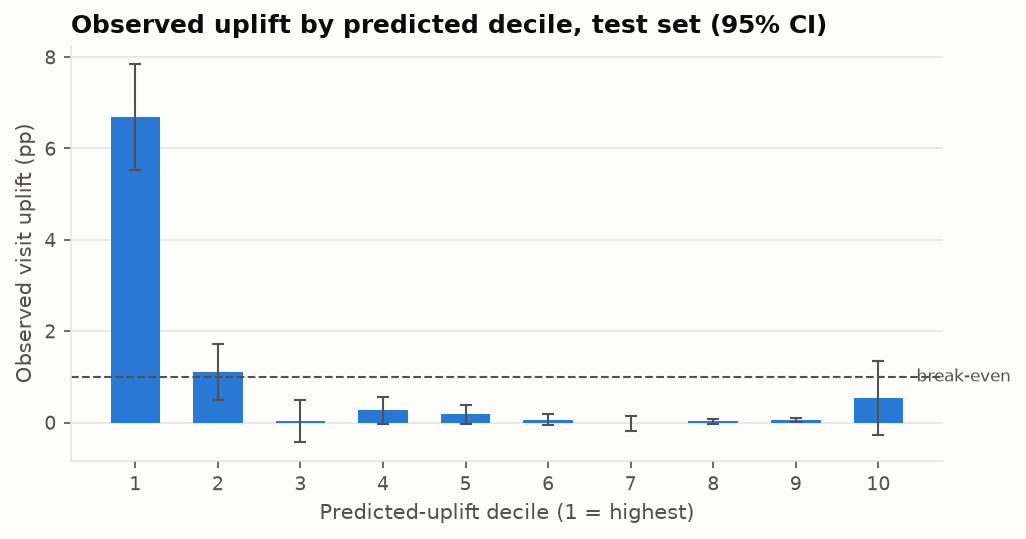
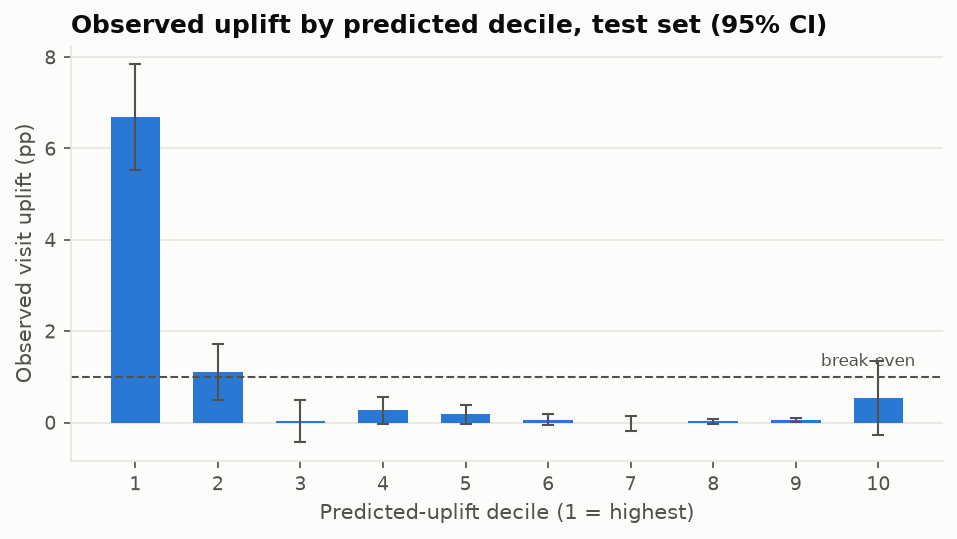
Stage 9: final review fixes
Clean-room rerun (fresh clone, Python 3.12, fresh downloads + BigQuery pull):
lint, 147 tests, demo, full validation and all three case studies pass and
reproduce committed results (stage2/4 byte-identical; stage3 to ~1e-12;
Hillstrom/Criteo exact; GA360 to relative 2e-8).

Review fixes:
- Report headline now quotes the CUPED estimate whose test produced the
  adjusted p-value (previously mixed unadjusted estimate with CUPED p).
- stage3.json regenerated: the committed file predated the cluster-SE
  refactor of AIPW (variance factor ddof=1 -> G/(G-1)); changes in 5th digit.
- README/CV: no longer claim every estimator is simulation-validated (some are
  reference-checked only); 'shipped' -> 'packaged'; reproducibility claim
  states exactly what was verified.
- GA360 memo labels the internal-traffic exclusion as post-hoc and notes the
  visitor-randomization design effect on the power table.
- Makefile documents the BigQuery extra for the GA360 case study.

diff --git a/src/xpkit/report/core.py b/src/xpkit/report/core.py
@@ -100,17 +100,24 @@ class ReportData:
         if not prim:
             return "No primary metric configured."
         m = prim[0]
+        # Report the estimate whose test produced the adjusted p-value (CUPED if configured).
+        est, lo, hi = (
+            (m.cuped["estimate"], m.cuped["ci_low"], m.cuped["ci_high"])
+            if m.cuped
+            else (m.estimate, m.ci_low, m.ci_high)
+        )
+        how = " (CUPED-adjusted)" if m.cuped else ""
         if m.adjusted_p_value < self.config["alpha"]:
-            direction = "increased" if m.estimate > 0 else "decreased"
+            direction = "increased" if est > 0 else "decreased"
             return (
-                f"Primary metric '{m.name}' {direction} by {m.estimate:+.4g} "
-                f"(CI {m.ci_low:+.4g} to {m.ci_high:+.4g}); significant after "
+                f"Primary metric '{m.name}' {direction} by {est:+.4g}{how} "
+                f"(CI {lo:+.4g} to {hi:+.4g}); significant after "
                 f"{self.config['multiplicity']} correction."
             )
+        mde = f" Smallest effect detectable at 80% power: {m.mde_80:.4g}." if m.mde_80 else ""
         return (
-            f"No significant change in primary metric '{m.name}' "
-            f"(estimate {m.estimate:+.4g}, CI {m.ci_low:+.4g} to {m.ci_high:+.4g}). "
-            f"Smallest effect detectable at 80% power: {m.mde_80:.4g}."
+            f"No significant change in primary metric '{m.name}'{how} "
+            f"(estimate {est:+.4g}, CI {lo:+.4g} to {hi:+.4g}).{mde}"
         )
 
 

diff --git a/docs/memos/03_ga360.md b/docs/memos/03_ga360.md
@@ -16,7 +16,7 @@
 
 1. **Standard errors.** There are 1.27 sessions per visitor, so 21.0% of sessions are a visitor's second or later session in the window. Clustering by `fullVisitorId` widens the naive SE by a factor of 1.16. The original CI treated every session as independent.
 2. **Confounding adjustment** with propensity scores, using only covariates fixed at session start (month, weekday, UTC time block, continent, top-10 country, returning-visitor flag and prior-visit count). In-session behaviour (pageviews, time on site, bounces) was **never pulled**: it is downstream of the device and would bias the estimate.
-3. **Suspected internal traffic** is excluded in a sensitivity run. One segment stands out. Channel "Referral" with the source recorded as "(direct)" has 68,468 desktop sessions but only 442 mobile ones. It converts at 7.5% on desktop and holds **5,129 conversions**. In total, the excluded traffic carries 49.1% of all desktop conversions. The pattern fits employee or internal purchasing with an obfuscated referrer, but the sample can't confirm the origin. It also drives a large share of the raw "desktop converts better" result.
+3. **Suspected internal traffic** is excluded in a *post-hoc* sensitivity run. The hypothesis came from the initial audit of channel-level rates, before this analysis was written, but it is still a data-driven exclusion, so the full-data estimate stays the primary one. One segment stands out. Channel "Referral" with the source recorded as "(direct)" has 68,468 desktop sessions but only 442 mobile ones. It converts at 7.5% on desktop and holds **5,129 conversions**. In total, the excluded traffic carries 49.1% of all desktop conversions. The pattern fits employee or internal purchasing with an obfuscated referrer, but the sample can't confirm the origin. It also drives a large share of the raw "desktop converts better" result.
 4. **Sensitivity to unmeasured confounding** via an E-value.
 
 ## Estimates (mobile − desktop conversion probability)
@@ -58,4 +58,4 @@ Run a randomized test of a **specific** mobile change (e.g. checkout flow), rand
 | 25% | 68,580 | 8.5 |
 | 50% | 19,040 | 2.4 |
 
-A subtle change is not testable at current traffic. Test a bold change (25-50% target lift), use a higher-frequency primary metric (e.g. add-to-cart), or use CUPED with each visitor's pre-period activity to cut the sample needed. Randomizing by visitor also means the analysis must cluster by visitor, as above.
+These counts are sessions and assume independent sessions. Randomizing by visitor (as recommended) adds a design effect from repeat visits, so the real requirement is somewhat larger. The variance inflation from clustering seen above (×1.35) is a rough guide. A subtle change is not testable at current traffic. Test a bold change (25-50% target lift), use a higher-frequency primary metric (e.g. add-to-cart), or use CUPED with each visitor's pre-period activity to cut the sample needed. Randomizing by visitor also means the analysis must cluster by visitor, as above.

diff --git a/README.md b/README.md
@@ -2,7 +2,7 @@
 
 <!-- Generated by scripts/build_docs.py from results/**/*.json. Edit docs/templates/README.md.j2, not this file. -->
 
-A tested Python toolkit and three real-data case studies. It covers checking whether an experiment can be trusted, measuring effects with honest uncertainty, estimating what is possible when you *can't* randomize, deciding who to target, and turning each result into a business decision. Every estimator is validated by simulation against a known truth, and every number below is generated by code in this repo.
+A tested Python toolkit and three real-data case studies. It covers checking whether an experiment can be trusted, measuring effects with honest uncertainty, estimating what is possible when you *can't* randomize, deciding who to target, and turning each result into a business decision. Every estimator is checked against a trusted reference implementation (scipy, statsmodels, published tables), a simulation with a known true effect, or both. Every number below is generated by code in this repo.
 
 **Verified results**
 
@@ -93,7 +93,7 @@ See [`docs/method_guide.md`](docs/method_guide.md) for when to use, and when not
 
 ### Reproducibility and traceability
 
-- Seeds everywhere. `results/**/*.json` are byte-identical across reruns (timings are excluded).
+- Seeds everywhere; wall-clock timings are excluded from results. A clean-room rerun (fresh clone, fresh Python 3.12 venv, fresh downloads and a fresh BigQuery pull) reproduced every committed result. Stage 2 and Stage 4 were byte-identical, Stage 3 matched to floating-point noise (~1e-12), Hillstrom and Criteo matched exactly, and GA360 matched to relative 2e-8 (optimizer and row-order noise). No reported figure changed.
 - README, memos, limitations and CV bullets are **rendered from those JSON files** (`scripts/build_docs.py`, `case_studies/templates/`). `tests/test_docs.py` fails if a doc is stale.
 - `make validate` regenerates the simulation results and `make case-studies` the real-data ones. The real-data runs download Hillstrom (4 MB) and Criteo (297 MB, checksum-pinned), and GA360 needs a BigQuery billing project. CI never touches them.
 

diff --git a/docs/cv_bullets.md b/docs/cv_bullets.md
@@ -2,6 +2,6 @@
 
 <!-- Generated by scripts/build_docs.py from results/**/*.json. Every number traces to results/. -->
 
-- Built a tested Python experimentation toolkit (SRM checks, CUPED, Lan-DeMets sequential boundaries, IPW/AIPW, clustered DiD, T/X-learner uplift) and validated each estimator by Monte Carlo simulation against known effects. For example, sequential boundaries held the false-positive rate at 5.0%, against 19.2% for naive peeking across 10 looks.
+- Built a tested Python experimentation toolkit (SRM checks, CUPED, Lan-DeMets sequential boundaries, IPW/AIPW, clustered DiD, T/X-learner uplift) and validated the estimators against reference implementations and Monte Carlo simulations with known effects. For example, sequential boundaries held the false-positive rate at 5.0%, against 19.2% for naive peeking across 10 looks.
 - Re-audited an observational mobile-vs-desktop conversion analysis on 873,204 Google Analytics sessions. Added visitor-clustered SEs and propensity adjustment on session-start covariates only, and found that a suspected internal-traffic segment (49% of desktop conversions) roughly halved the adjusted gap (-1.25 pp to -0.67 pp). Recommended a randomized test sized by power analysis instead of a redesign launch.
-- Built an uplift-targeting policy on 1,001,957 Criteo users with honest train/validation/test splits. Targeting the top 20% earned $6.74 per 1,000 held-out users against $0.22 for random targeting under stated cost assumptions. Shipped as a CLI report and Streamlit app that refuse to interpret results when trust checks fail.
+- Built an uplift-targeting policy on 1,001,957 Criteo users with honest train/validation/test splits. Targeting the top 20% earned $6.74 per 1,000 held-out users against $0.22 for random targeting under stated cost assumptions. Packaged as a CLI report and Streamlit app that refuse to interpret results when trust checks fail.

diff --git a/docs/memos/01_hillstrom.md b/docs/memos/01_hillstrom.md
@@ -1,6 +1,6 @@
 # Decision memo: Hillstrom e-mail campaign
 
-*Generated by `case_studies/01_hillstrom.py` from `results/case_studies/hillstrom.json` (commit `0e88098`). Do not edit the numbers by hand.*
+*Generated by `case_studies/01_hillstrom.py` from `results/case_studies/hillstrom.json` (commit `5bab396`). Do not edit the numbers by hand.*
 
 **Decision: LAUNCH, using the Mens E-Mail.** The primary metric is significant after Holm correction and the profit CI is above zero.
 

diff --git a/docs/memos/02_criteo.md b/docs/memos/02_criteo.md
@@ -1,6 +1,6 @@
 # Decision memo: who should see Criteo ads?
 
-*Generated by `case_studies/02_criteo.py` from `results/case_studies/criteo.json` (commit `0e88098`). Do not edit the numbers by hand.*
+*Generated by `case_studies/02_criteo.py` from `results/case_studies/criteo.json` (commit `5bab396`). Do not edit the numbers by hand.*
 
 **Decision: LAUNCH.** Targeting beats random at the chosen depth and is profitable on the held-out test set.
 
